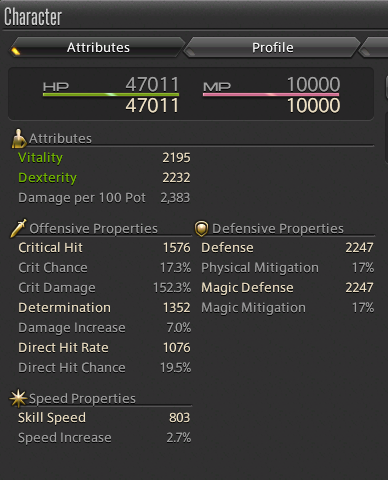
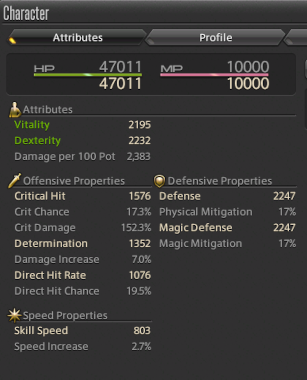
Fix Image Dimensions

diff --git a/README.md b/README.md
@@ -8,6 +8,6 @@ Character Panel Refined cuts away useless information from the character panel, 
 
 ## Installation
 
-You can install it as an experimental plugin through the dalamud plugin browser or 
+Available for install via [Dalamud](https://github.com/goatcorp/FFXIVQuickLauncher)'s built-in plugin installer.
 
-Check https://github.com/Kouzukii/DalamudPlugins on how to install my plugins.
+Alternatively check https://github.com/Kouzukii/DalamudPlugins on how to install my plugins directly.
